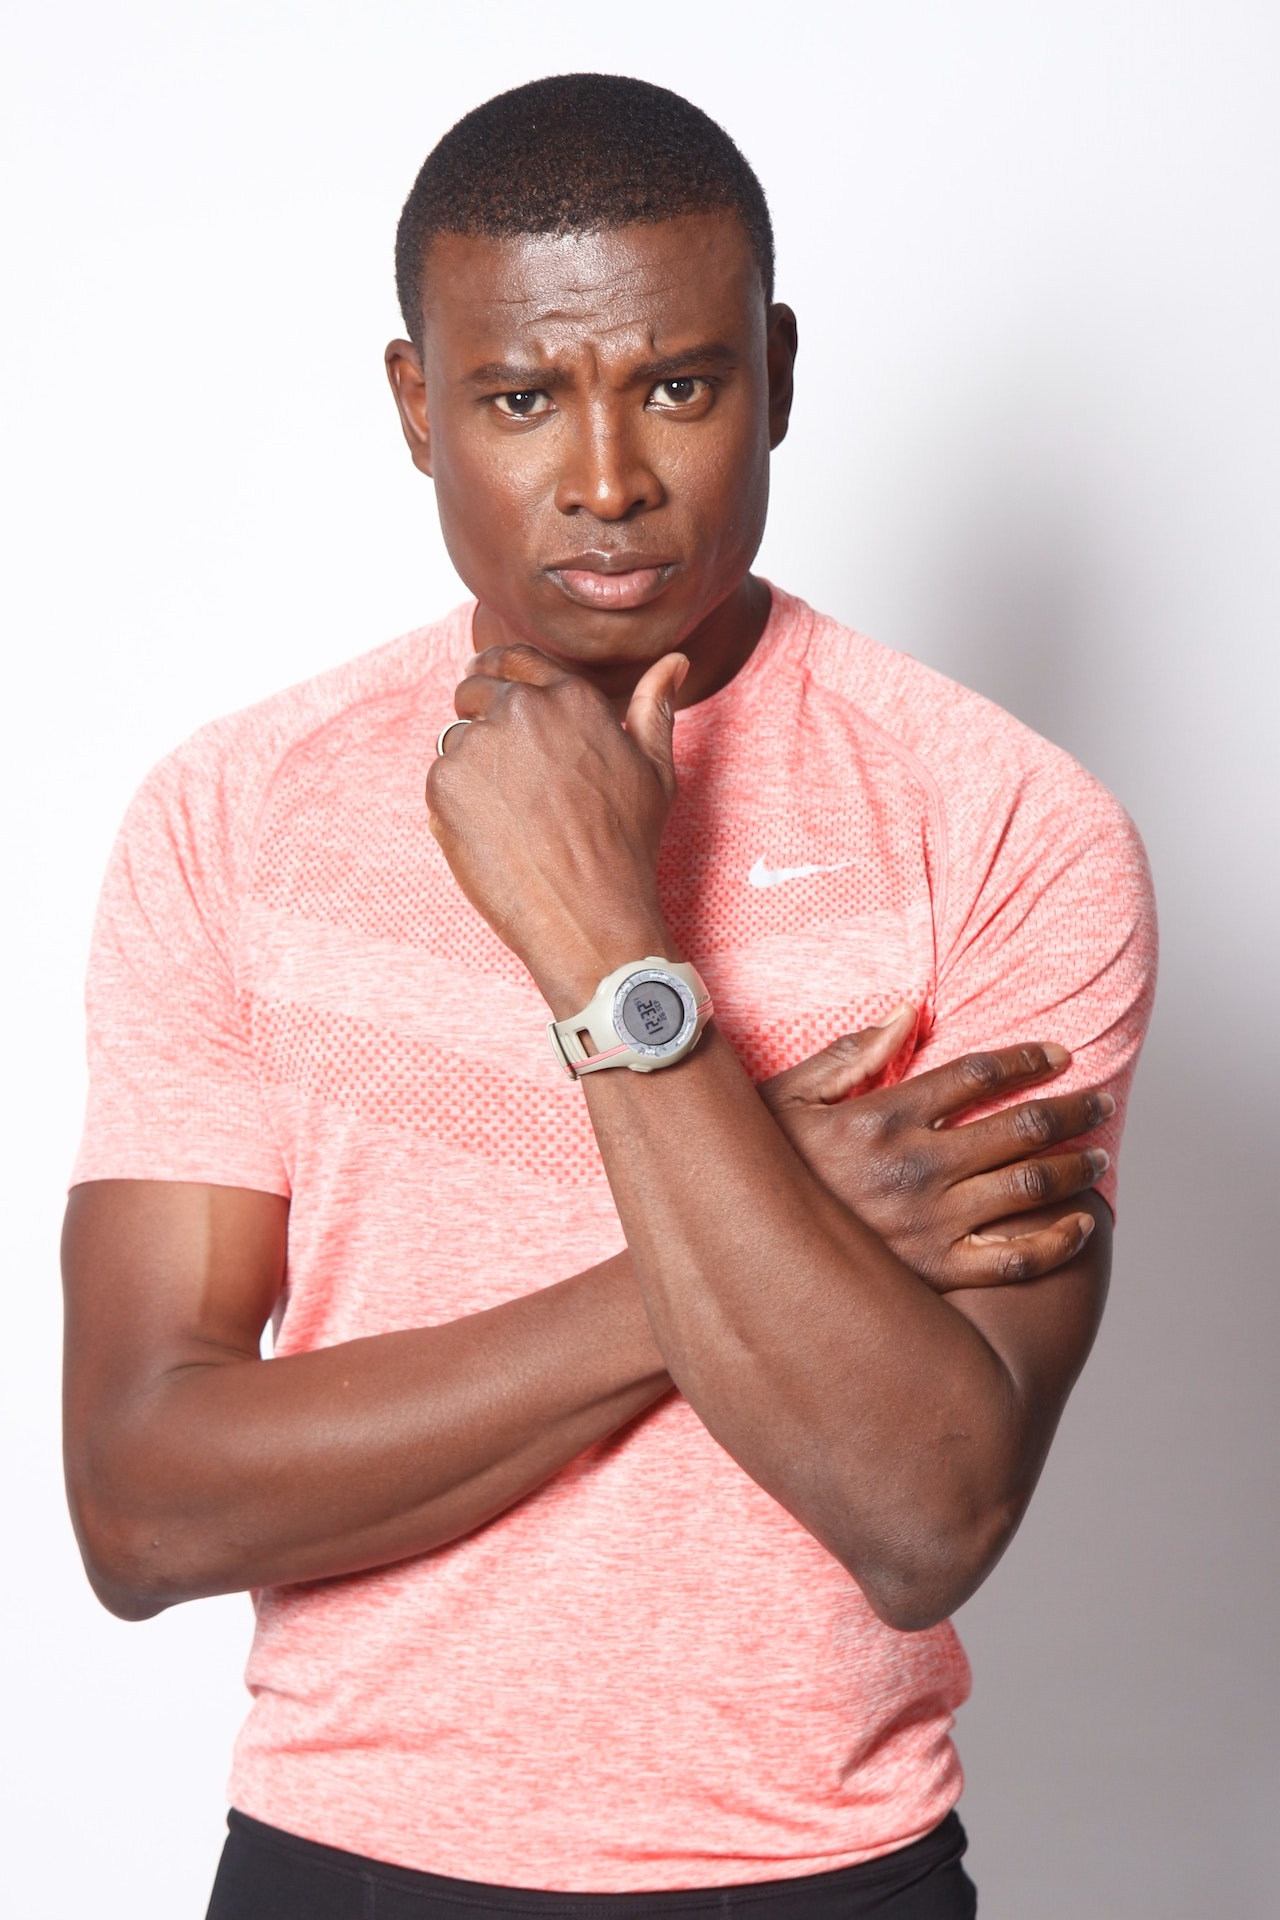
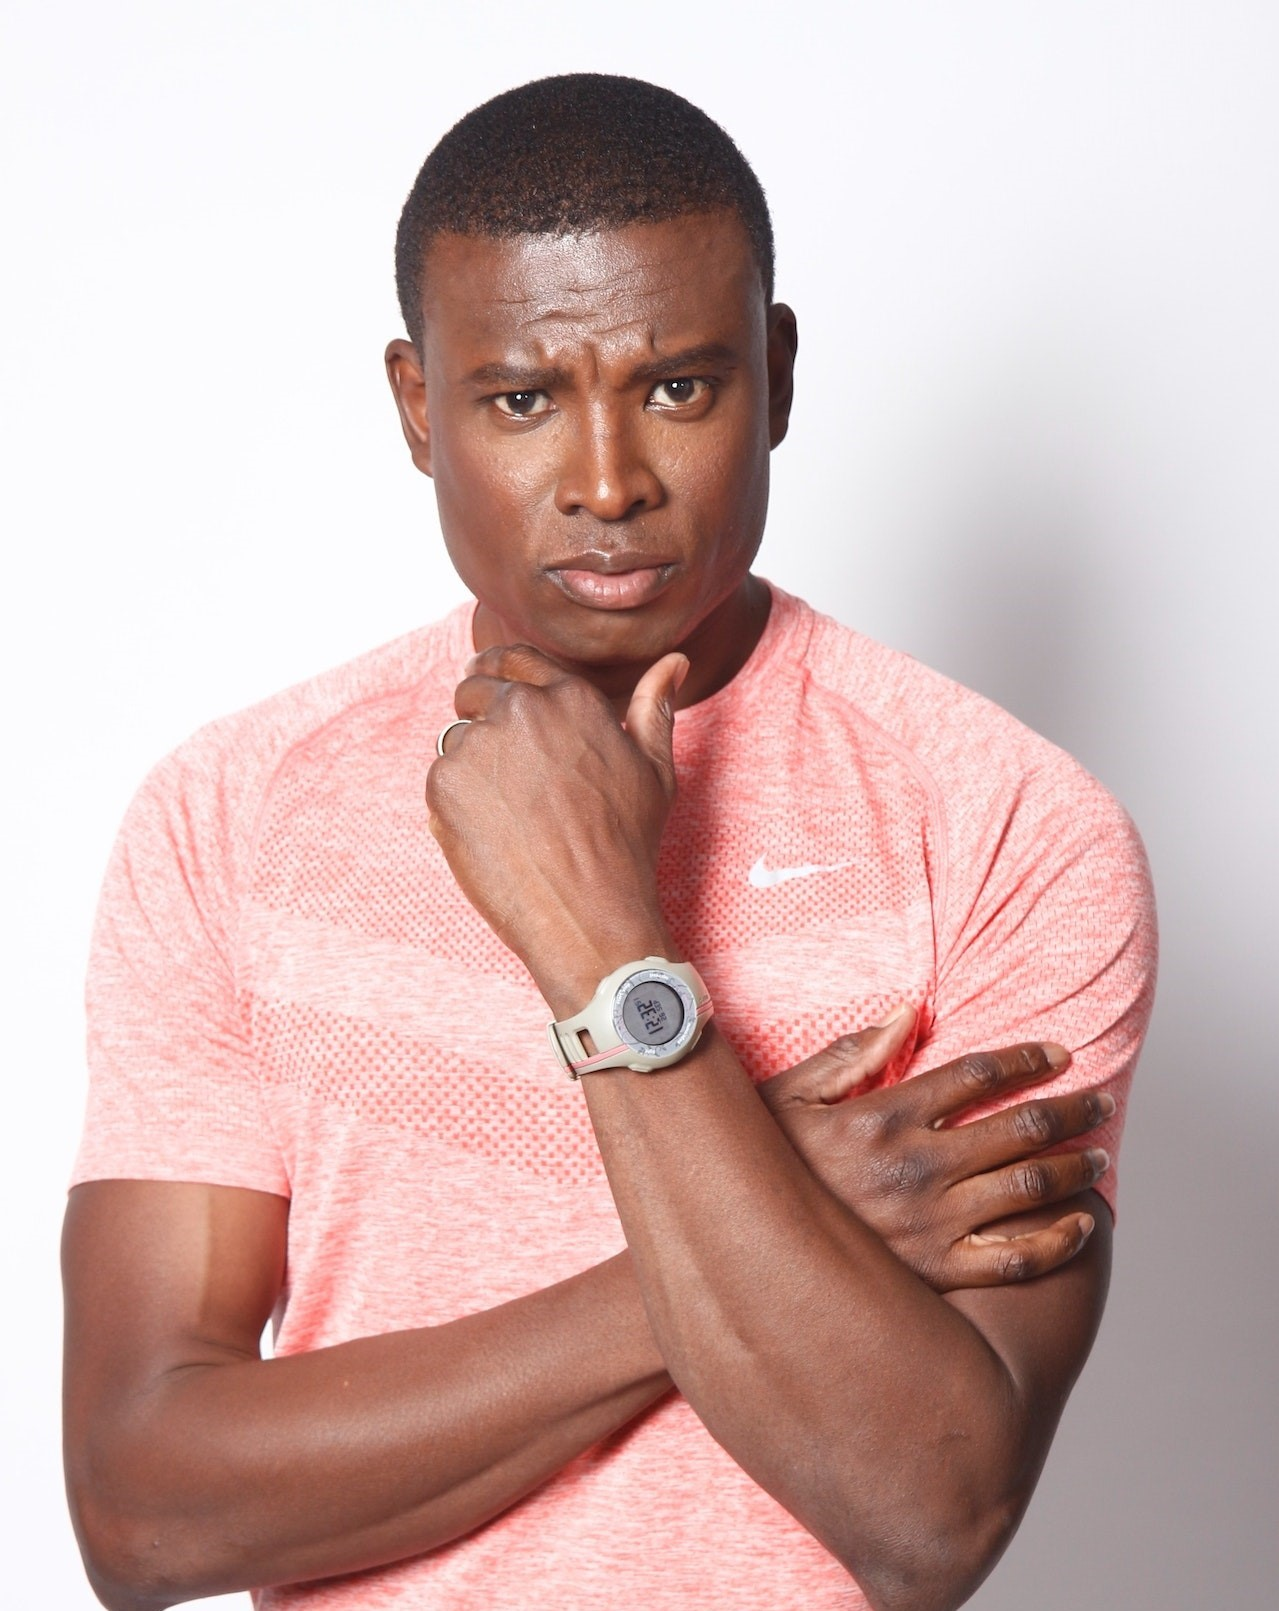
Changed image on home

diff --git a/resources/views/home.blade.php b/resources/views/home.blade.php
@@ -178,19 +178,20 @@
         <a href="{{url('/women')}}"><img class="img w-100 carousel-banner-img" src="{{URL('images/woman_standing_tall_1.jpg')}}" alt="Women" ></a>
     </div>
     <div class="col-6">
-        <a href="{{url('/men')}}"><img class="img w-100 carousel-banner-img" src="{{URL('images/productMen.jpg')}}" alt="Men" ></a>
+        <a href="{{url('/men')}}"><img class="img w-100 carousel-banner-img" src="{{URL('images/man_standing_tall_4.jpg')}}" alt="Men" ></a>
     </div>
 </div>
 </div>
 
-<div class="container-fluid w-75 px-0 my-5">
-  <h2 style="text-align:center">Company News</h2> <br>
-<div class="container-fluid">
+
+<div class="container-fluid w-75 px-0 my-5 ">
+  <h2 class="text-center">Company News</h2>
+<div class="container-fluid mt-4">
   <div class="row">
-   <div class="col-md-6">
-    <div class="card">
+   <div class="col-md-6 mb-3">
+    <div class="card rounded-0">
    <div class="card-body">
-     <h3 class="card-title" style="text-align:center">New Launch</h3>
+     <h3 class="card-title text-center">New Launch</h3>
      <p class="card-text" >Capitano Clothing launches a brand new collection in collaboration with award winning designer Regina Geller. 
      Behind every design is an entire story and a purpose, and we love sharing what makes each one so special!
      Our new collection added small touches to your favorite staples to make them even more special, while mixing in something new as well.
@@ -199,14 +200,15 @@
    </div>
     </div>
    </div>
-   <div class="col-md-6">
-   <div class="card">
+   <div class="col-md-6 mb-3">
+   <div class="card rounded-0">
    <div class="card-body">
-     <h3 class="card-text" style="text-align:center">Giving back to the community</h3>
-     <p>To celebrate its four year anniversary since opening, Capitano Clothing orgarnised a charity fair. The company raised £100 thousand pounds 
+    <h3 class="card-title text-center">Giving back to the community</h3>
+     <div class="card-text">
+        To celebrate its four year anniversary since opening, Capitano Clothing orgarnised a charity fair. The company raised £100 thousand pounds 
       for the Youth Sport Trust which is the UK's leading charity, improving every young person's education and development through sport and play.
-      In addition, Capitano Clothing gave out vouchers for people to spend on its website. We also hosted a free webinar. 
-    </p>
+      In addition, Capitano Clothing gave out vouchers for people to spend on its website. We also hosted a free webinar.
+     </div>
    </div>
  </div>
 </div>
